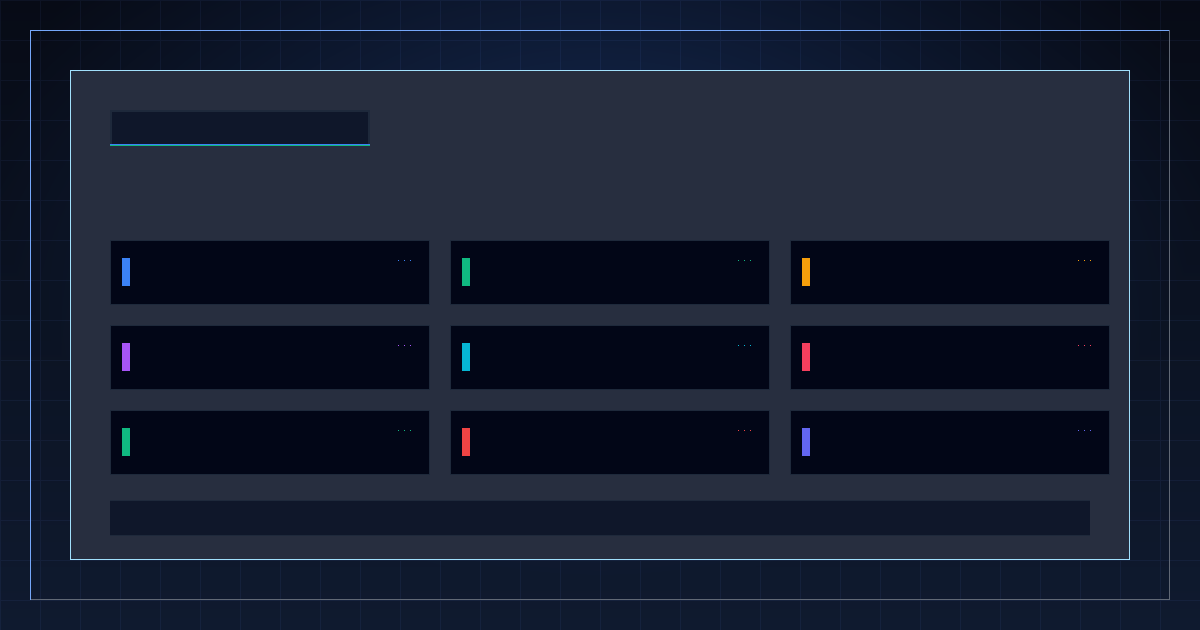
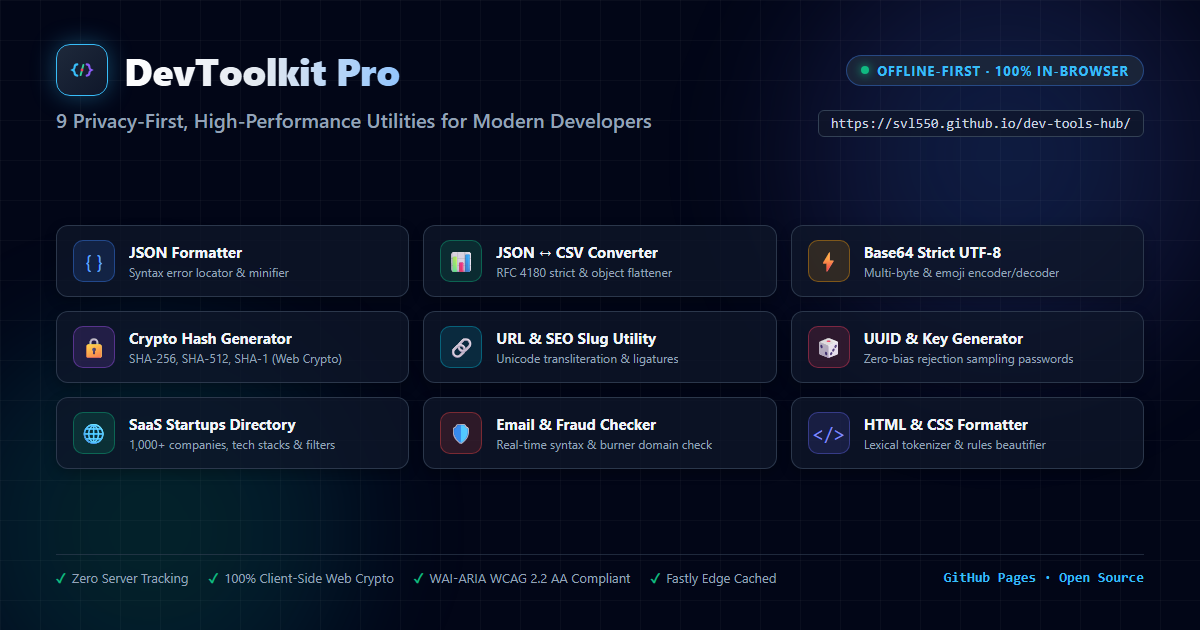
feat(lot4-3-1): Lot 4.3.1 - High-fidelity promotional og-image, verified SpamShield  pricing, and accurate CSP documentation

diff --git a/index.html b/index.html
@@ -3,6 +3,17 @@
 <head>
   <meta charset="UTF-8">
   <meta name="viewport" content="width=device-width, initial-scale=1.0">
+  <!-- Content Security Policy (Meta-tag Implementation):
+       - default-src 'self': Restricts fallback resource origins to own domain.
+       - script-src 'self' 'unsafe-inline': Permits local scripts (startups-data.js) and application inline scripts; eliminates 'unsafe-eval' thanks to precompiled Tailwind CSS. Note: 'unsafe-inline' allows inline script execution and does not protect against DOM/inline XSS.
+       - style-src 'self' 'unsafe-inline': Permits local styles.css and inline style blocks.
+       - img-src 'self' data: https:: Permits local, data URI, and HTTPS images.
+       - connect-src 'self' https://spamshield-api-8kdt.onrender.com: Authorizes SpamShield email verification fetch API.
+       - font-src 'self' data:: Permits system and data fonts.
+       - object-src 'none': Disallows plugins.
+       - base-uri 'self': Prevents <base> hijacking.
+       - form-action 'self' https://ko-fi.com https://gumroad.com: Restricts HTML <form action="..."> targets (note: does not restrict standard <a href> navigation).
+       * Note on GitHub Pages limitation: Meta tags cannot enforce 'frame-ancestors', 'report-uri', or 'sandbox'. -->
   <meta http-equiv="Content-Security-Policy" content="default-src 'self'; script-src 'self' 'unsafe-inline'; style-src 'self' 'unsafe-inline'; img-src 'self' data: https:; connect-src 'self' https://spamshield-api-8kdt.onrender.com; font-src 'self' data:; object-src 'none'; base-uri 'self'; form-action 'self' https://ko-fi.com https://gumroad.com;">
   <title>DevToolkit Pro | Developer Utilities, SaaS Startups Directory 2026 & Email Fraud Checker</title>
   <meta name="description" content="Free in-browser developer utilities: JSON formatter, JSON to CSV converter, Base64 encoder, SHA256 generator, Global SaaS Startups Directory 2026, and live Disposable Email & Fraud Checker API.">
@@ -569,7 +580,7 @@
             <p class="text-xs text-slate-400">Real-time email syntax, MX record, typo detection, and disposable burner domain verification powered by SpamShield API.</p>
           </div>
           <a href="https://ko-fi.com/s/fda9dadd03" target="_blank" rel="noopener" class="inline-flex items-center space-x-1.5 px-3 py-1.5 text-xs font-semibold rounded-lg bg-red-600 hover:bg-red-500 text-white transition shadow-sm">
-            <span>Get Pro API Key ($29) &rarr;</span>
+            <span>Get Pro API Key ($19) &rarr;</span>
           </a>
         </div>
 
